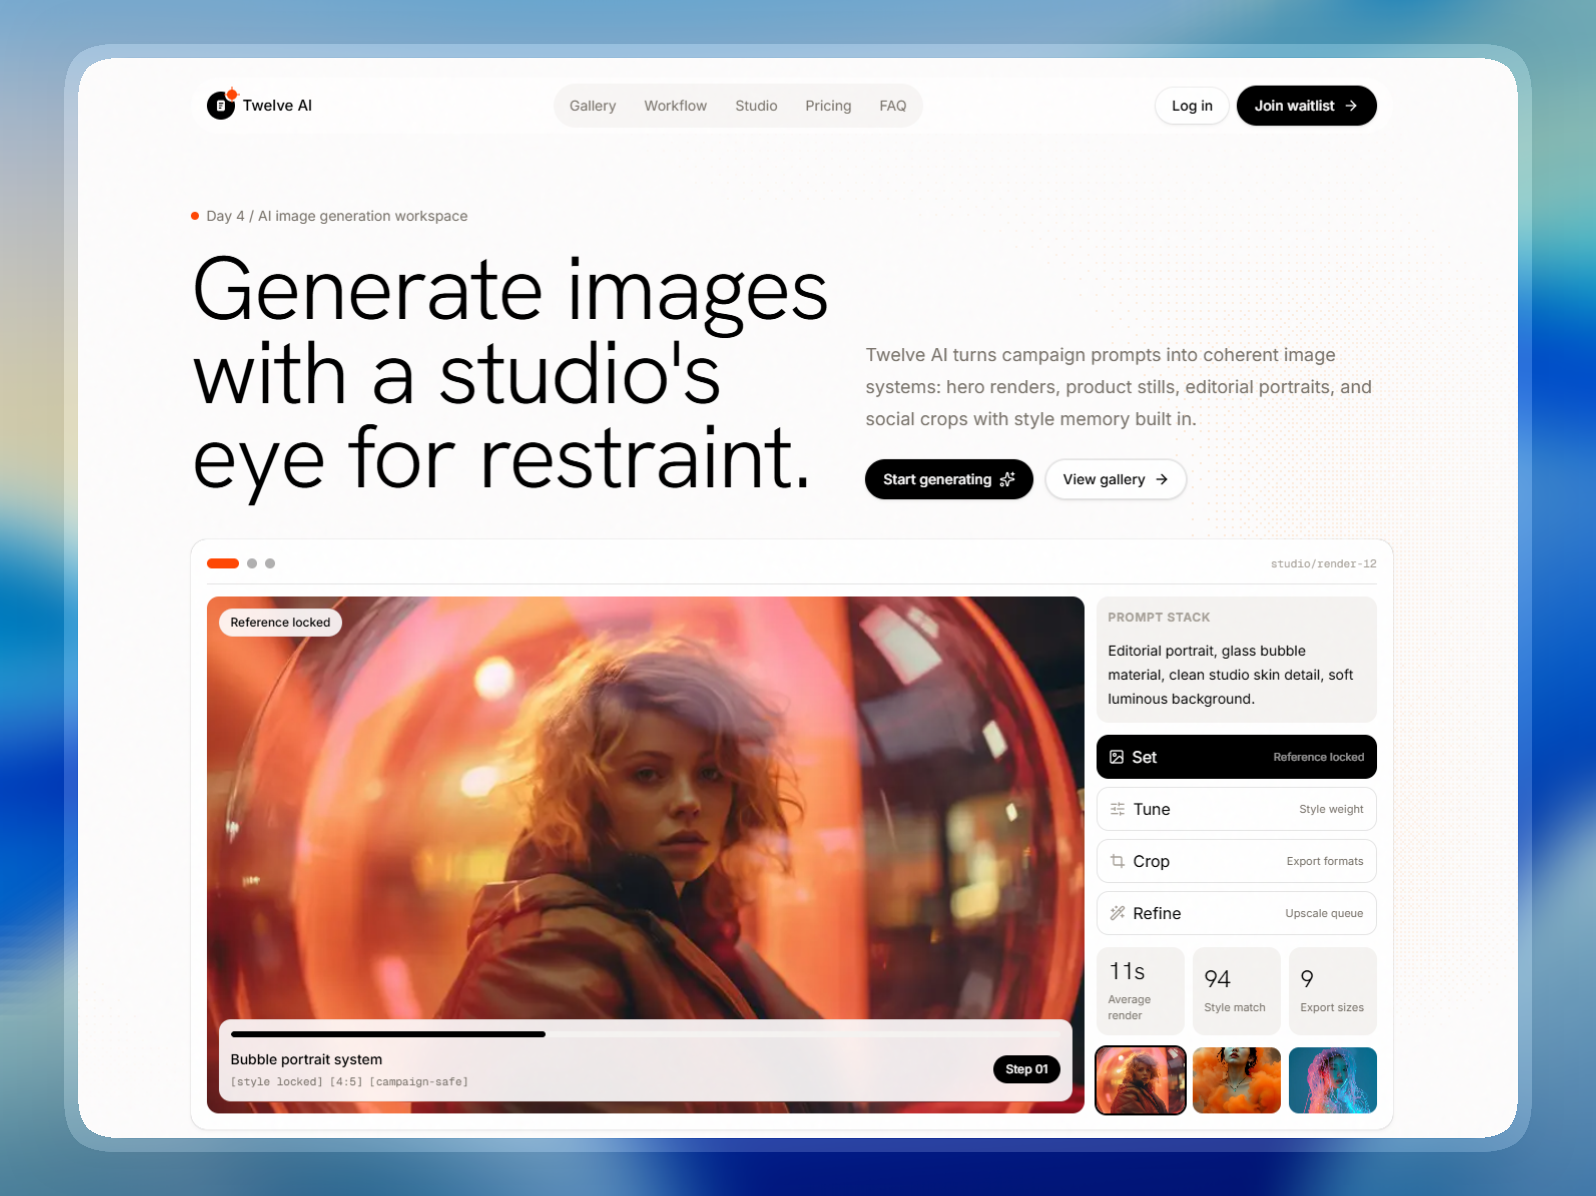
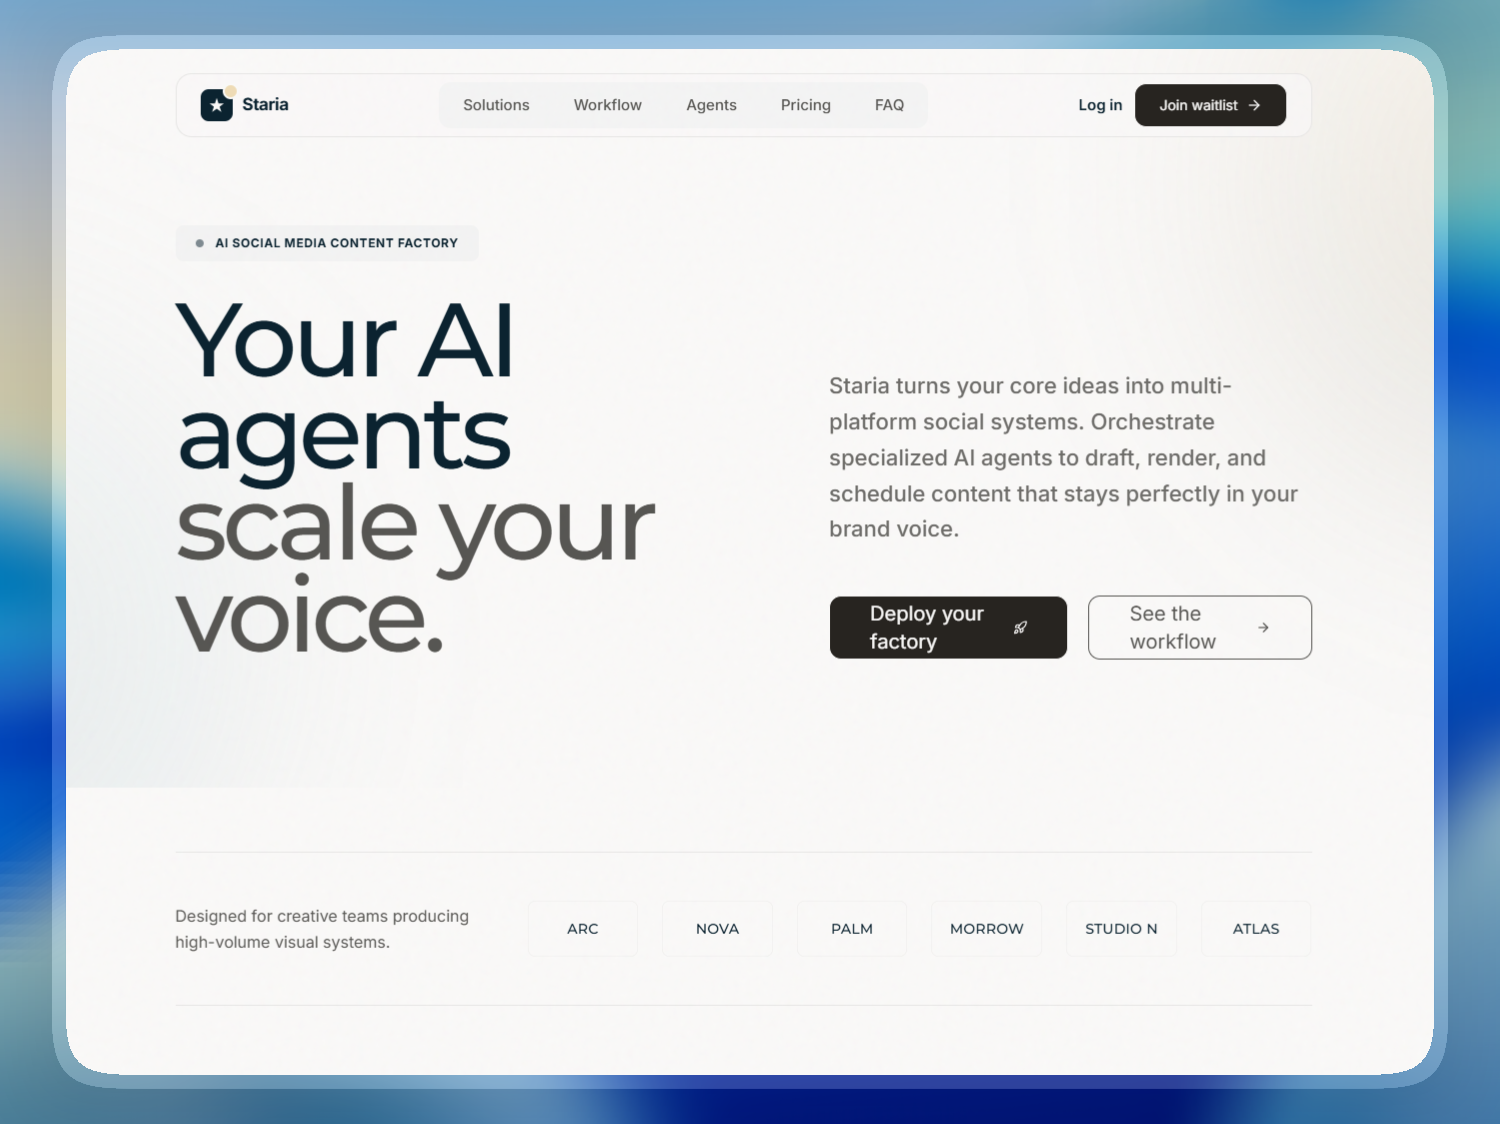
fix: adjust next types import path; hide hero
- Aligns type references with the dev build path for correct development-time type resolution.
- Hides a hero subcomponent during layout refinement.
- Removes a temporarily added marketing asset to keep repo clean.

diff --git a/src/components/sections/Hero.tsx b/src/components/sections/Hero.tsx
@@ -283,7 +283,7 @@ export function Hero() {
           </div>
         </div>
 
-        <div className="mt-28">
+        <div className="mt-28 hidden">
           <HeroStudioCard />
         </div>
       </div>
